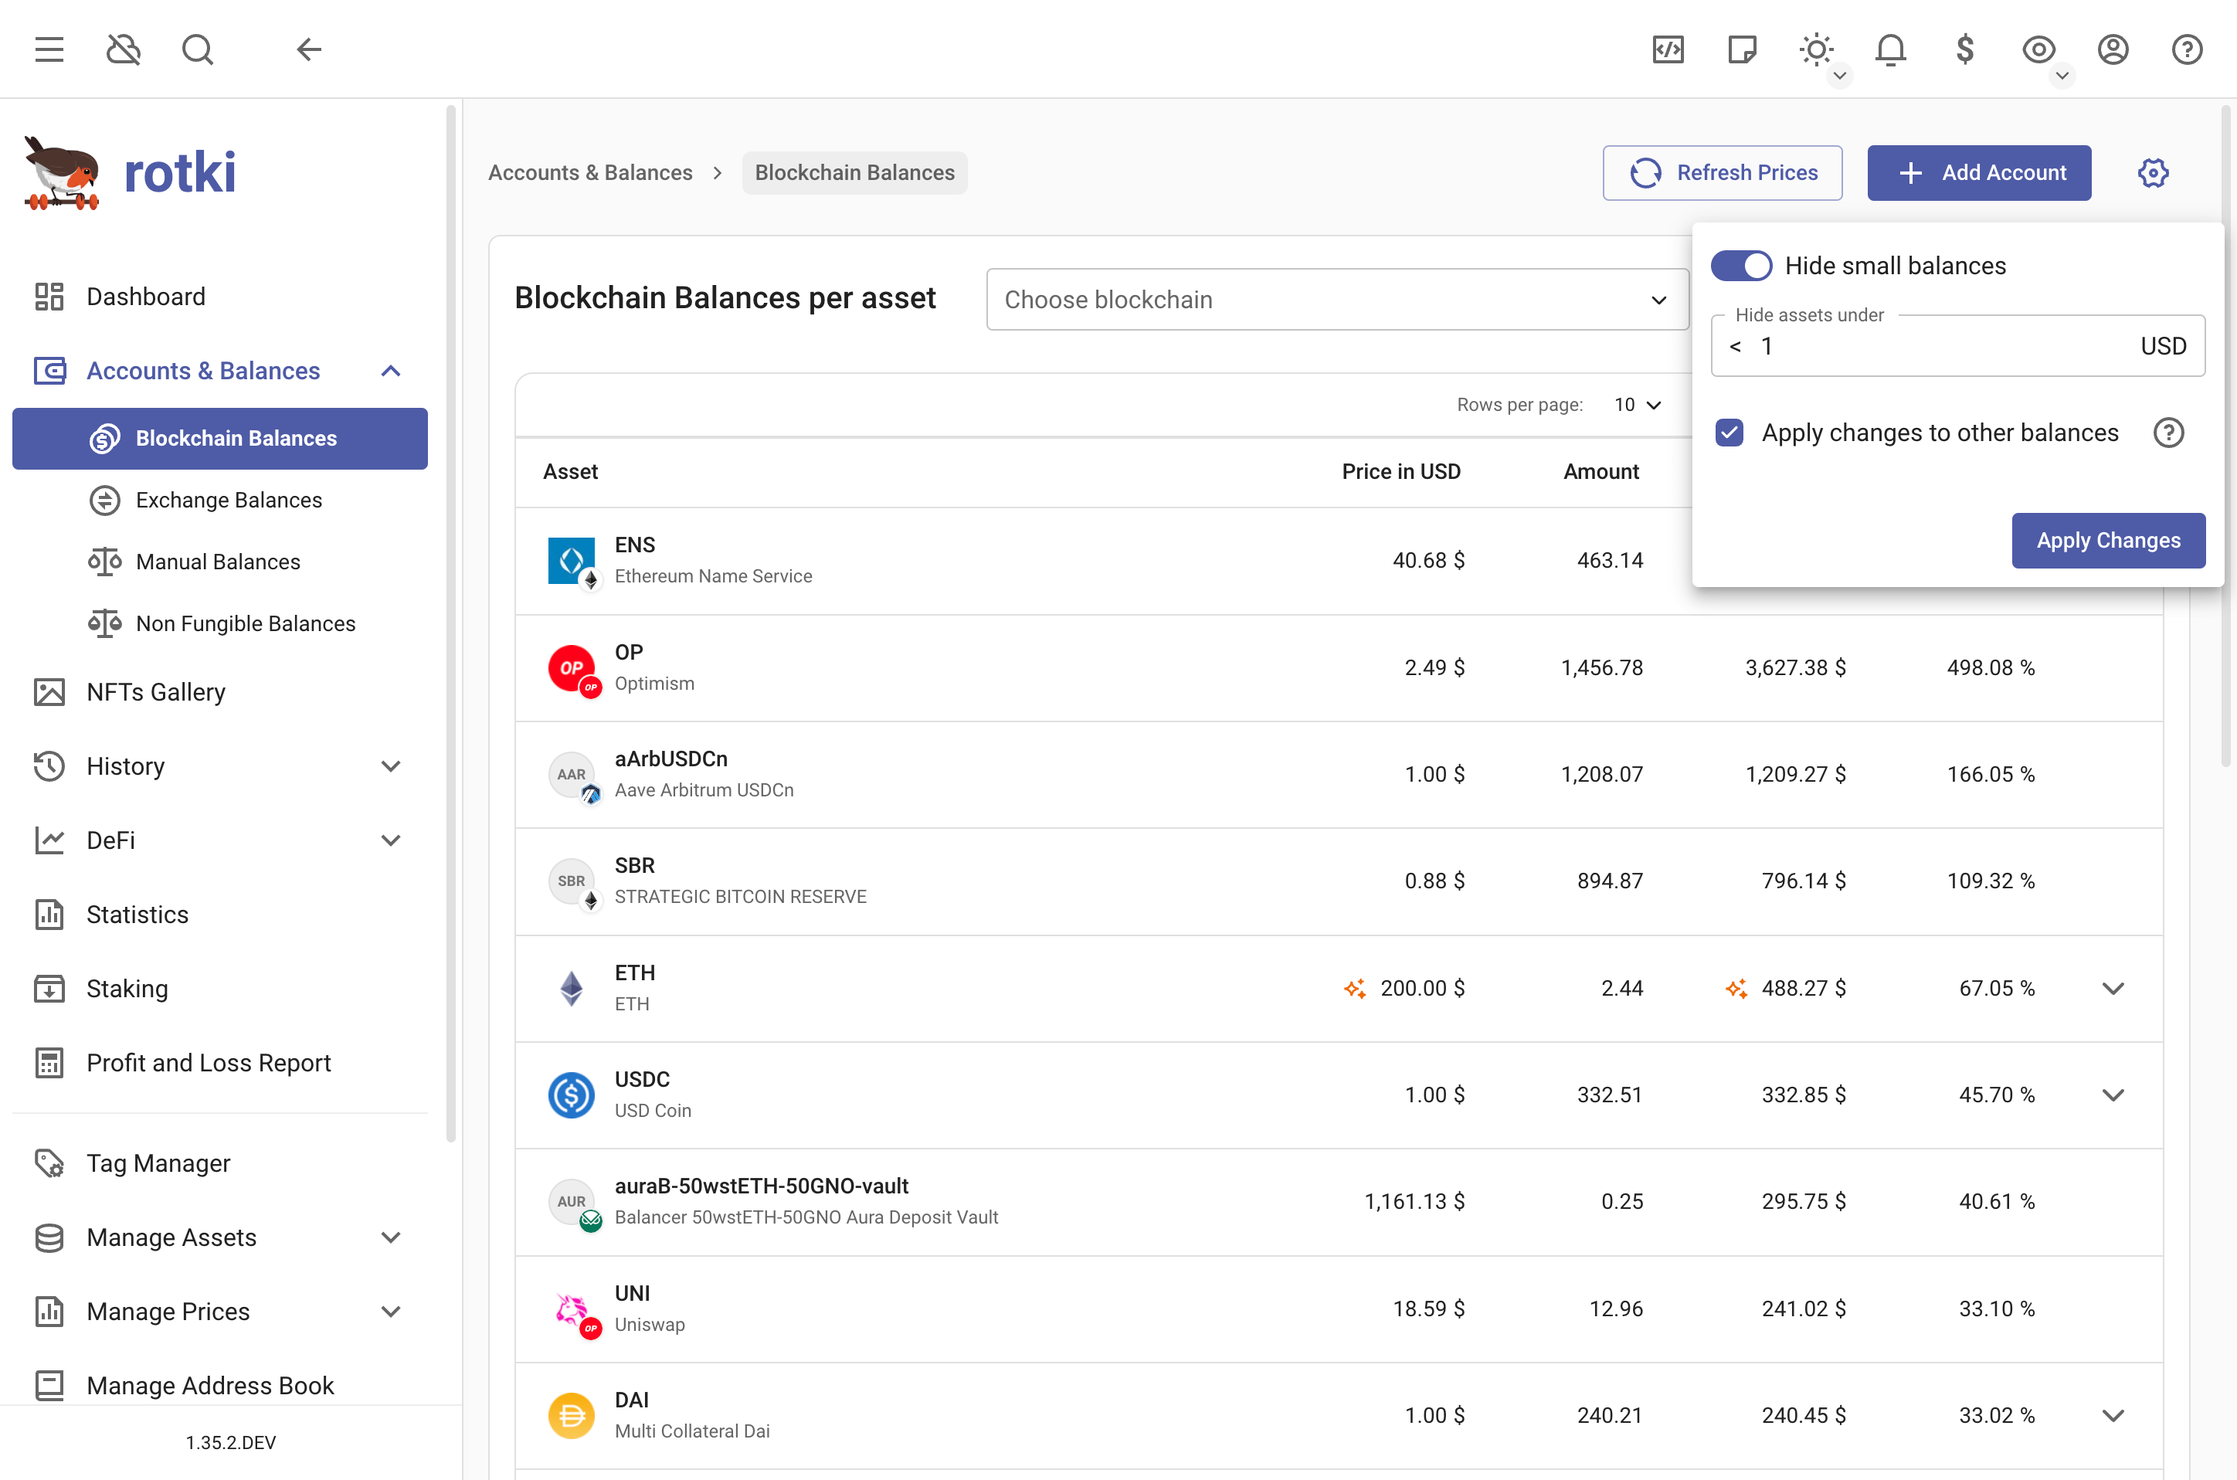
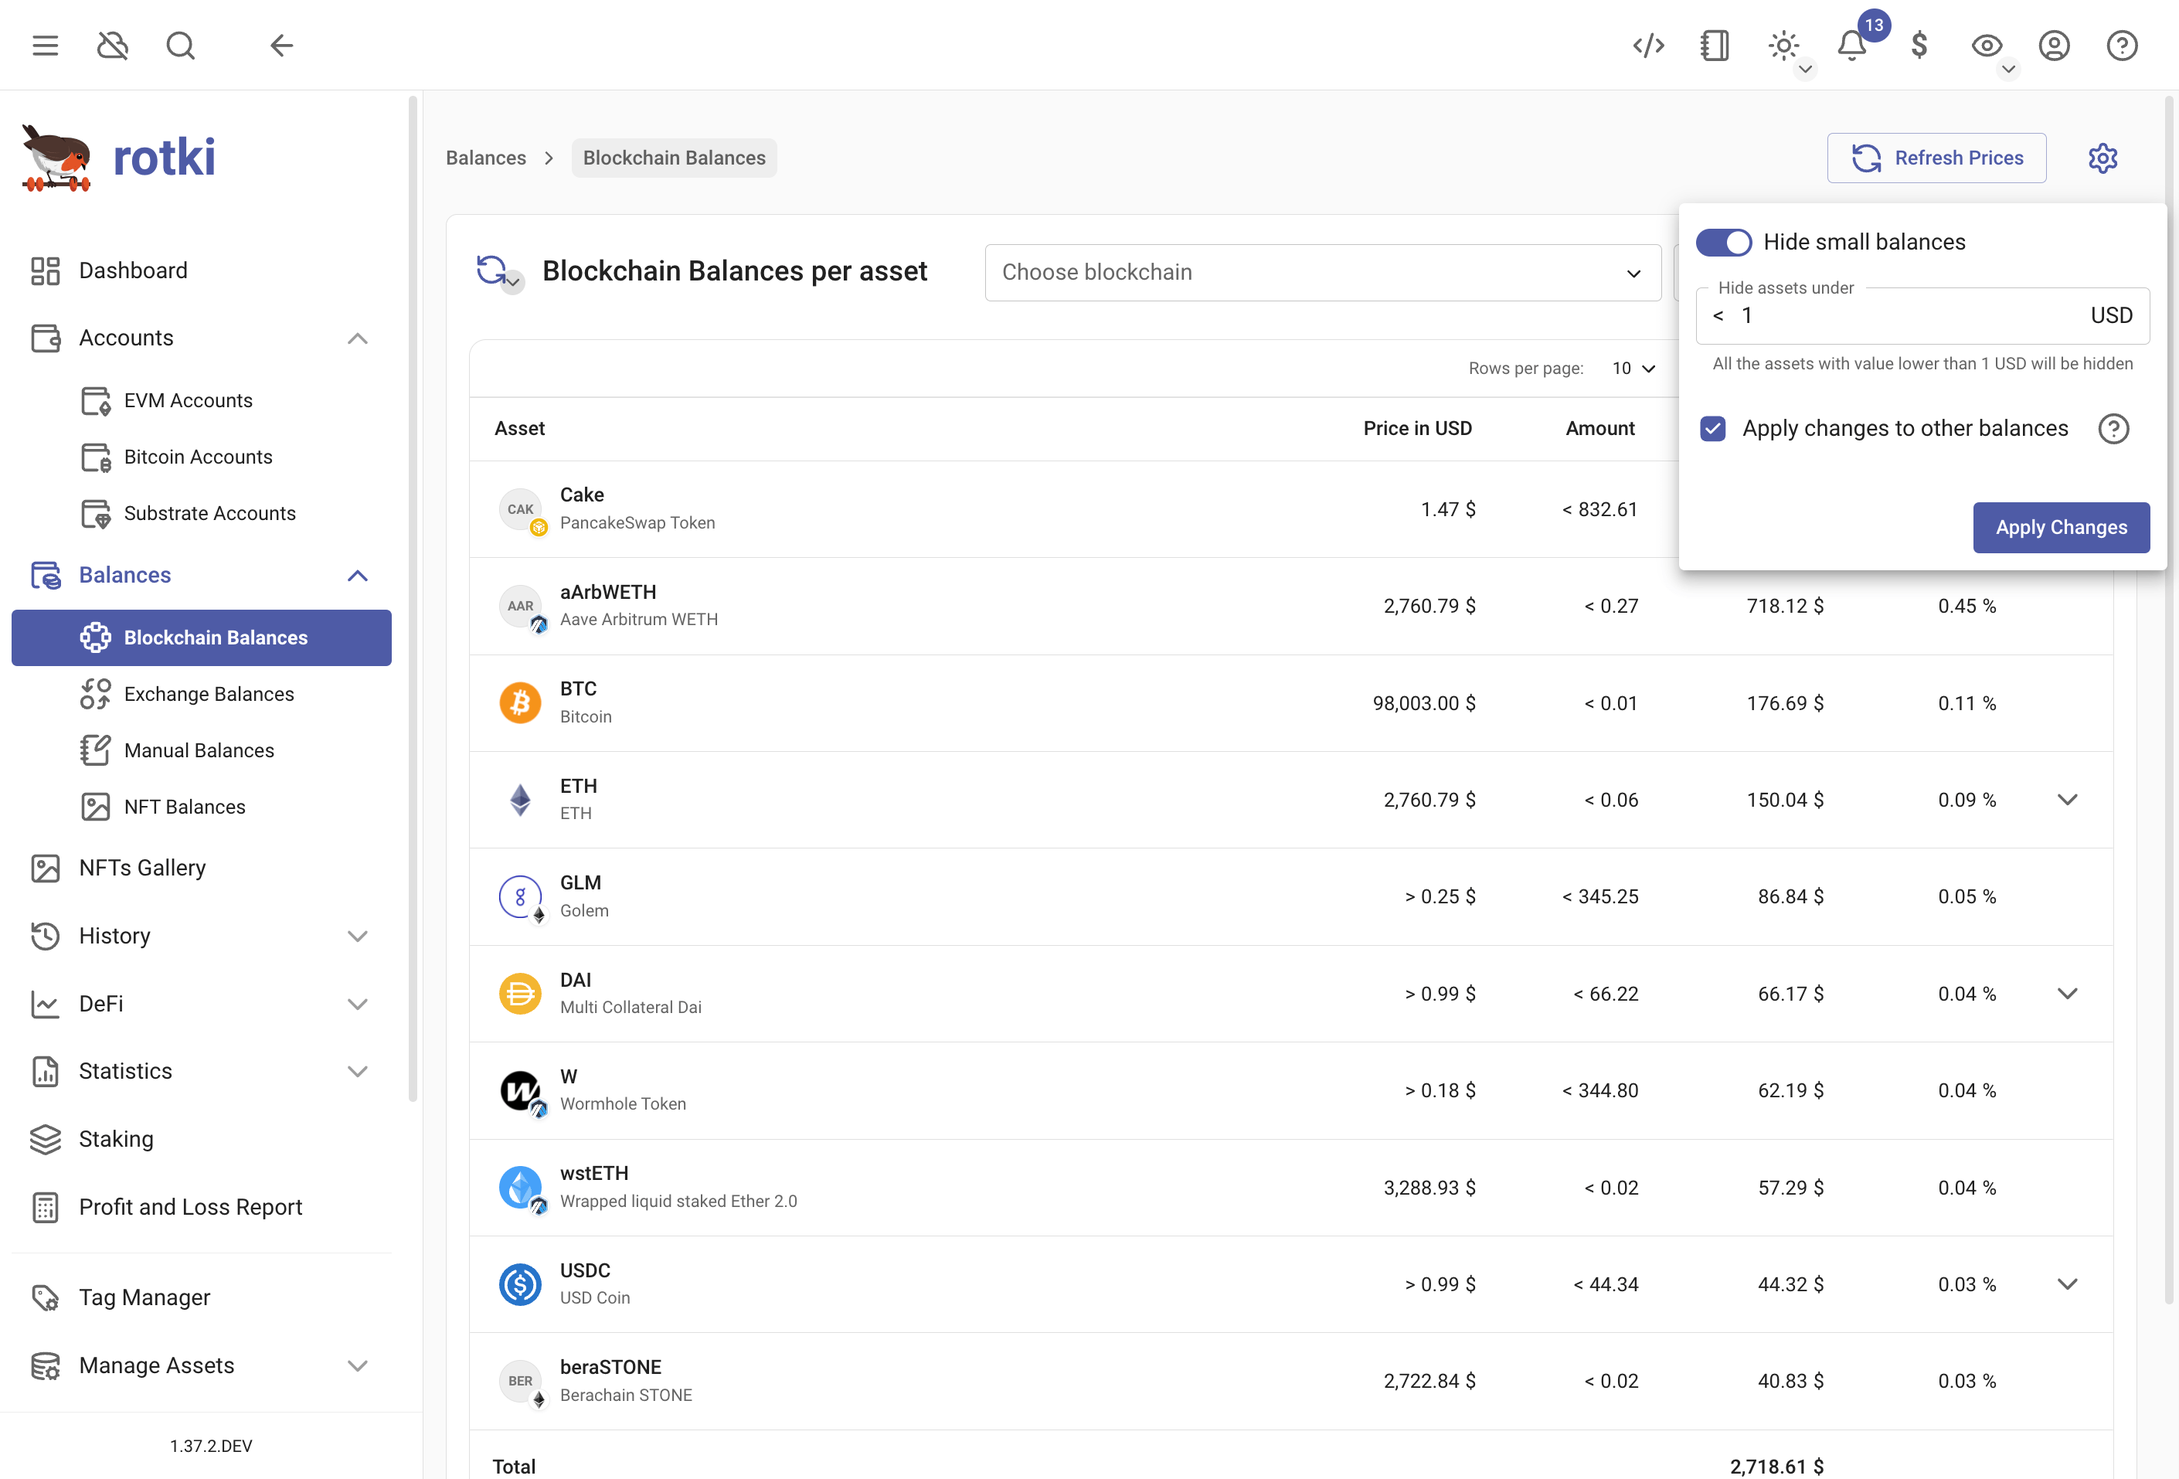
docs: update docs for rotki 1.38

diff --git a/usage-guides/accounts-and-balances.md b/usage-guides/accounts-and-balances.md
@@ -1,8 +1,8 @@
 # Tracking accounts & balances
 
-To manage Accounts & Balances (Blockchain Balances, Exchange Balances, and Manual Balances including fiat) you need to visit the `Accounts & Balances` section from the left sidebar.
+To manage Blockchain Accounts, you need to visit the `Accounts` section from the left sidebar.
 
-![Accounts & Balances page](/images/sc_accounts_balances.png)
+![Blockchain accounts page](/images/accounts.png)
 
 ## Adding and Removing Blockchain Accounts
 
@@ -19,6 +19,7 @@ For now, the following chains are supported in rotki (and the list will be growi
   - Base (base)
   - Gnosis (gnosis)
   - Scroll (scroll)
+  - Binance Smart Chain (binance_sc)
   - Avalanche (avax)
   - zkSync Lite (zksync_lite)
 
@@ -28,21 +29,20 @@ For now, the following chains are supported in rotki (and the list will be growi
   - Bitcoin Cash (bch)
 
 - **Substrate Chains**:
+
   - Polkadot (dot)
   - Kusama (ksm)
 
-To add or modify an account navigate to the `Blockchain Balances` sub-page and click the "**Add Account**" button on the top right. Now choose the blockchain on which you want to add an account. Then type or paste the address in the "Account" textbox and press the "Save" Button. Note that you can add multiple accounts if you click the "**Add multiple addresses**" checkbox and provide a comma separated list of addresses.
+To add or modify an account navigate to the particular chain category sub-page and click the "**Add Account**" button on the top right. Now choose the blockchain on which you want to add an account. Then type or paste the address in the "Account" textbox and press the "Save" Button. Note that you can add multiple accounts if you click the "**Add multiple addresses**" checkbox and provide a comma separated list of addresses.
 
 ![Add a blockchain account](/images/add_blockchain_account.png)
 
 You can edit or delete an account using the buttons at the end of the row.
 For editing, you can modify the label or the tags.
 
-![Edit or delete a blockchain account](/images/edit_or_delete_blockchain_account.png)
+### Add to all EVM Chains
 
-### EVM Chains
-
-If the selected chain is an EVM chain you will see `Add to all supported EVM chains` checkbox. It is checked by default and it means that rotki will try to add the address for all EVM chains. If the address is a contract in Ethereum mainnet it will only be added to Ethereum. Otherwise for each chain rotki will check whether the address had any activity there and will add only if it has at least one transaction. If you uncheck the checkbox, then the address will only be added to the selected chain.
+You can add to all EVM chains, by selecting `All Supported Chains` in the chain selector.
 
 If an EVM account also contains tracked tokens you can click on the arrow under **Actions** in order to expand its view and show the balance breakdown for the account over all assets it holds.
 
@@ -97,7 +97,7 @@ For EVM accounts, it is possible to trigger the process of detecting tokens befo
 
 You can export your blockchain accounts to CSV and then import them again into another rotki account (if you need to do it for your tax accountant, etc.). Also, if you have many accounts that you want to add to rotki, you can create your CSV and import it into rotki.
 
-You can do it in the menu `Accounts & Balances > Blockchain Balances` by clicking the three-dot menu.
+You can do it in from any submenu from the menu `Accounts` by clicking the three-dot menu.
 
 ![Import and Export Blockchain Accounts](/images/import_and_export_blockchain_accounts.png)
 
@@ -109,7 +109,13 @@ You can do it in the menu `Accounts & Balances > Blockchain Balances` by clickin
 4. The `label` field is **optional**.
 5. The `tags` field is **optional**. Multiple tags should be separated by semicolons (`;`).
 
-## Checking Exchange Balances
+## Blockchain aggregated balances
+
+You can see the list of aggregated assets from Blockchain Accounts from menu `Balances > Blockchain Balances`.
+
+![Aggregated list of assets from blockchain accounts](/images/sc_blockchain_balances.png)
+
+## Exchange Balances
 
 You can check all of the asset balances that you have in each connected exchange in the "Exchange Balances" sub-page. Clicking the "Add exchange" button takes you to the API Keys page where you can manage your exchange connections (see [Adding an exchange](/usage-guides/importing-data.html#adding-an-exchange)).
 
@@ -124,7 +130,7 @@ There choose the asset from the dropdown menu, input a unique label for the acco
 
 You can also filter the manual balances by `location`, `name` or `asset`.
 
-![The manually tracked balances](/images/sc_manually_tracked_balances.png)
+![The manually tracked balances](/images/sc_manual_balances.png)
 
 By pressing the edit button for the account you can also add tags to the blockchain account. If you want to create a new tag or edit an existing one you can open the tag manager and choose the name, description and colors of the tag.
 
@@ -165,7 +171,7 @@ You have an overview of the total value of your NFTs in the application dashboar
 
 An estimation of the value of the NFTs you own is counted into your total net worth. The estimation strategy is currently the maximum of either the floor price of the collection or the last sale of the NFT. If a manual price has been given this is always preferred.
 
-![NFT Value Dashboard](/images/sc_nf_price.png)
+![NFT Value Dashboard](/images/sc_nft_balances.png)
 
 If a price cannot be found for an NFT asset or if you want to change the calculated price estimate you can easily set the price for an NFT asset manually. You can do this by either clicking on the `>` button in the NFTs table in the dashboard or by going to `Blockchains & Accounts → Non Fungible balances`. And then click on the pen icon for the NFT you are interested in.
 
@@ -195,14 +201,14 @@ This will enable image rendering of only whitelisted NFT domains.
 
 There are two ways to track ETH2 Staking. The first is by adding tracking the account of an ETH account that deposited
 the ETH for the validator. This will auto-detect any associated validators with the ETH1 address and it will start
-tracking them. The second way is by adding a validator using the `Add account button` in the `Blockchain Balances → Accounts & Balances` page. It can be added using its public key, its index or both of them for a faster query. Finally it
+tracking them. The second way is by adding a validator using the `Add account button` in the `Accounts → EVM Account > Validators` page. It can be added using its public key, its index or both of them for a faster query. Finally it
 is also possible to customize the proportion of the validator owned for users who share one validator with more people.
 
-![Track an ETH2 validator](/images/rotki_eth2_add_validator.png)
+![Track an ETH2 validator](/images/eth2_add_validator.png)
 
 After adding a new validator you will see the list of balances for each of these validators.
 
-![ETH2 validator balances](/images/rotki_eth2_balances.png)
+![ETH2 validator balances](/images/eth2_validators.png)
 
 If you are an ETH2 staker you can see the total value earned both in the current ETH price (2) but also counting the price of the daily payouts of ETH2 staking (3).
 

diff --git a/usage-guides/statistic.md b/usage-guides/statistic.md
@@ -2,15 +2,19 @@
 
 If you have a premium subscription you can get statistics on all your assets and trades.
 
-> Note: The starting point of these statistics will be when you started using the application as rotki takes balance snapshots daily. We also plan to provide analytics on data before that in a best effort basis as detailed in [this](https://github.com/rotki/rotki/issues/1379) issue.
+Click on the `Statistic` page on the left sidebar to go to your statistics page.
 
-Click on the statistics page on the left sidebar to go to your statistics page.
+## Net value over time
 
 Since rotki is tracking all your assets over time the first thing you can see is a value/time graph of your entire net value.
 
-![Netvalue over time graph](/images/sc_stats_netvalue.png)
+> Note: The starting point of these statistics will be when you started using the application as rotki takes balance snapshots daily. We also plan to provide analytics on data before that in a best effort basis as detailed in [this](https://github.com/rotki/rotki/issues/1379) issue.
+
+![Net value over time graph](/images/sc_stats_netvalue.png)
 
 Following that you can see a graph of quantity of an asset superimposed on its USD value over time.
+
+## Asset amount and value over time
 
 ![Asset amount and value over time](/images/sc_stats_asset_amount_value.png)
 
@@ -24,9 +28,19 @@ All the assets graphs as well as the dashboard graph have the possibility of sel
 
 ![Zooming in the graphs](/images/zooming_in_graph_statistics.png)
 
+### Use historical events and prices
+
+By default, the asset amount and value use snapshot data, which is typically taken daily (depends on the setting). If you want to view more detailed data, you can use `historical events and prices`. Additionally, you can click `Refresh daily prices`, and rotki will attempt to populate the graph with daily prices, allowing you to observe price movements over time.
+
+![Asset amount and value from historical events processing](/images/asset_amount_and_value_from_historical.png)
+
+## Value distribution by location
+
 Furthermore you can see a piechart of the distribution of your netvalue across different locations. So you can determine how exposed you are to having a big part of your net value in exchanges, in banks e.t.c.
 
 ![Distribution of networth by location](/images/sc_stats_distribution_location.png)
+
+## Value distribution by asset
 
 Moreover you can see a piechart of the distribution of your netvalue across all of the assets you own. This is an important analytics tool as it can help you determine your exposure on each asset and if some rebalancing of your portfolio is in order.
 

diff --git a/usage-guides/assets.md b/usage-guides/assets.md
@@ -29,23 +29,7 @@ Go to the Manage Assets -> Assets page. Use the search to find the token by name
 
 ### Token Detection Methods
 
-**Single Account Per-Chain Detection**
-
-The best way to detect tokens for a single address is to go to blockchain & accounts balances, scroll down to the EVM accounts view, expand the dropdown at the account, go to the per chain tab and click on the detect tokens toggle 🔃.
-
-![Example of detecting tokens for a specific chain](/images/redetect-per-chain-view.png)
-
-**All Accounts Per-Chain Detection**
-
-Go to Account & Balances -> Blockchain Balances. Scroll down to EVM accounts and click on Re-detect tokens (🔃). Here you can select specific chains to detect tokens for all your wallets. This will take a bit of time depending on tracked addresses per chain. The slowest chain for detection is ethereum.
-
-![Example of re-detecting tokens for all EVM chains in the Blockchain Balances section.](/images/redetect-tokens-chain.png)
-
-**Dashboard Full Detection**
-
-For a complete re-detection of all tokens across all your addresses and all supported chains, use the re-detect toggle (🔃) in the main dashboard view. This will perform a full scan of your addresses on every chain but will probably take quite a long time depending on amount of tracked addresses and chains.
-
-![Example of performing a full token detection using the re-detect toggle on the dashboard.](/images/redetect-tokens-dashboard.png)
+You can check token detection guide [here](/usage-guides/accounts-and-balances#token-detection)
 
 ## Adding/editing an asset
 
@@ -149,6 +133,6 @@ You can ignore/un-ignore the assets by toggling the switch on the table. You can
 
 You can also ignore assets by clicking asset icons anywhere on the app, that will redirect you to this overview asset page. In this page, you can ignore or un-ignore a selected asset.
 
-It is also possible to ignore NFTs. To do this navigate to `Accounts & Balances → Non fungible balances` and toggle the ignore NFT switch. Then you can use the filter to view the ignored NFTs.
+It is also possible to ignore NFTs. To do this navigate to `Balances → NFT Balances` and toggle the ignore NFT switch. Then you can use the filter to view the ignored NFTs.
 
 ![Ignoring NFTs](/images/rotki_ignore_nfts.png)

diff --git a/usage-guides/importing-data.md b/usage-guides/importing-data.md
@@ -4,8 +4,6 @@ In this section, we will explain how you can import data by integrating with ext
 
 ### Adding an exchange
 
-![Adding exchanges](/images/rotki_add_exchange_1.png)
-
 You can integrate many different exchanges with rotki. Currently supported exchanges are:
 
 - Kraken
@@ -30,9 +28,9 @@ You can integrate many different exchanges with rotki. Currently supported excha
 
 To do so, you need to go to your exchange and create an API key (see the section [API key permissions](#api-key-permissions)).
 
-Click on the "API keys" on the left sidebar. This will take you to the place where you can add new exchange API keys. Press the plus button to open the exchange addition menu.
+Click on the `API Keys > Exchanges` on the left sidebar. This will take you to the place where you can add new exchange API keys. Press the plus button to open the exchange addition menu.
 
-![Add API keys for a new exchange](/images/rotki_add_exchange_2.png)
+![Add API keys for a new exchange](/images/rotki_add_exchange_1.png)
 
 Then copy and paste the `API Key` and the `API Secret` in the respective text fields and press Save.
 
@@ -42,7 +40,7 @@ You also have the option to enable/disable synchronization for the connected exc
 
 > **Note**: At the moment, [margin trades](https://github.com/rotki/rotki/issues/1980) and [future trades](https://github.com/rotki/rotki/issues/1606) are not yet supported in rotki.
 
-![List of connected exchanges](/images/rotki_add_exchange_3.png)
+![List of connected exchanges](/images/rotki_add_exchange_2.png)
 
 ## API key permissions
 

diff --git a/faq.md b/faq.md
@@ -60,7 +60,7 @@ Please, make sure all your accounts have the "Allow data sync with rotki Server"
 
 ### ENS data not updating for newly registered name/address combination
 
-If you just registered your ENS name and you don't see the name and/or avatar being properly displayed in rotki, then that means that the value is cached and you need to force a refresh. You can do that by going to `Accounts & Balances → Blockchain Balances` view and pressing the refresh button next to the Ethereum balances table.
+If you just registered your ENS name and you don't see the name and/or avatar being properly displayed in rotki, then that means that the value is cached and you need to force a refresh. You can do that by going to `Accounts → EVM Accounts` view and pressing the refresh button on the top.
 
 ### My asset is not showing in rotki
 
